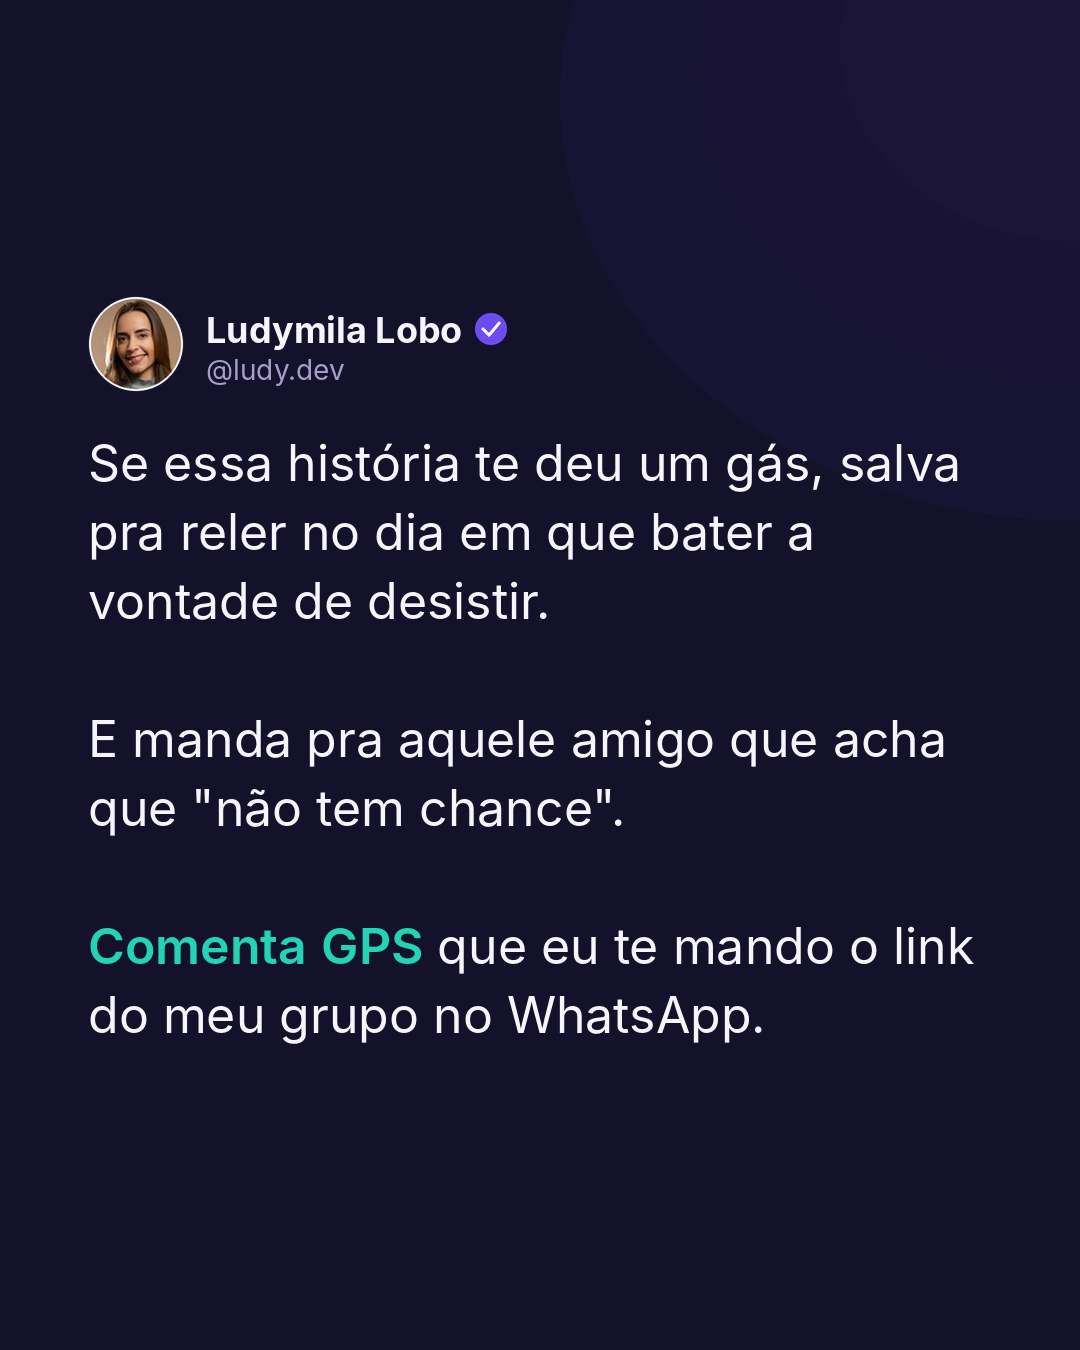
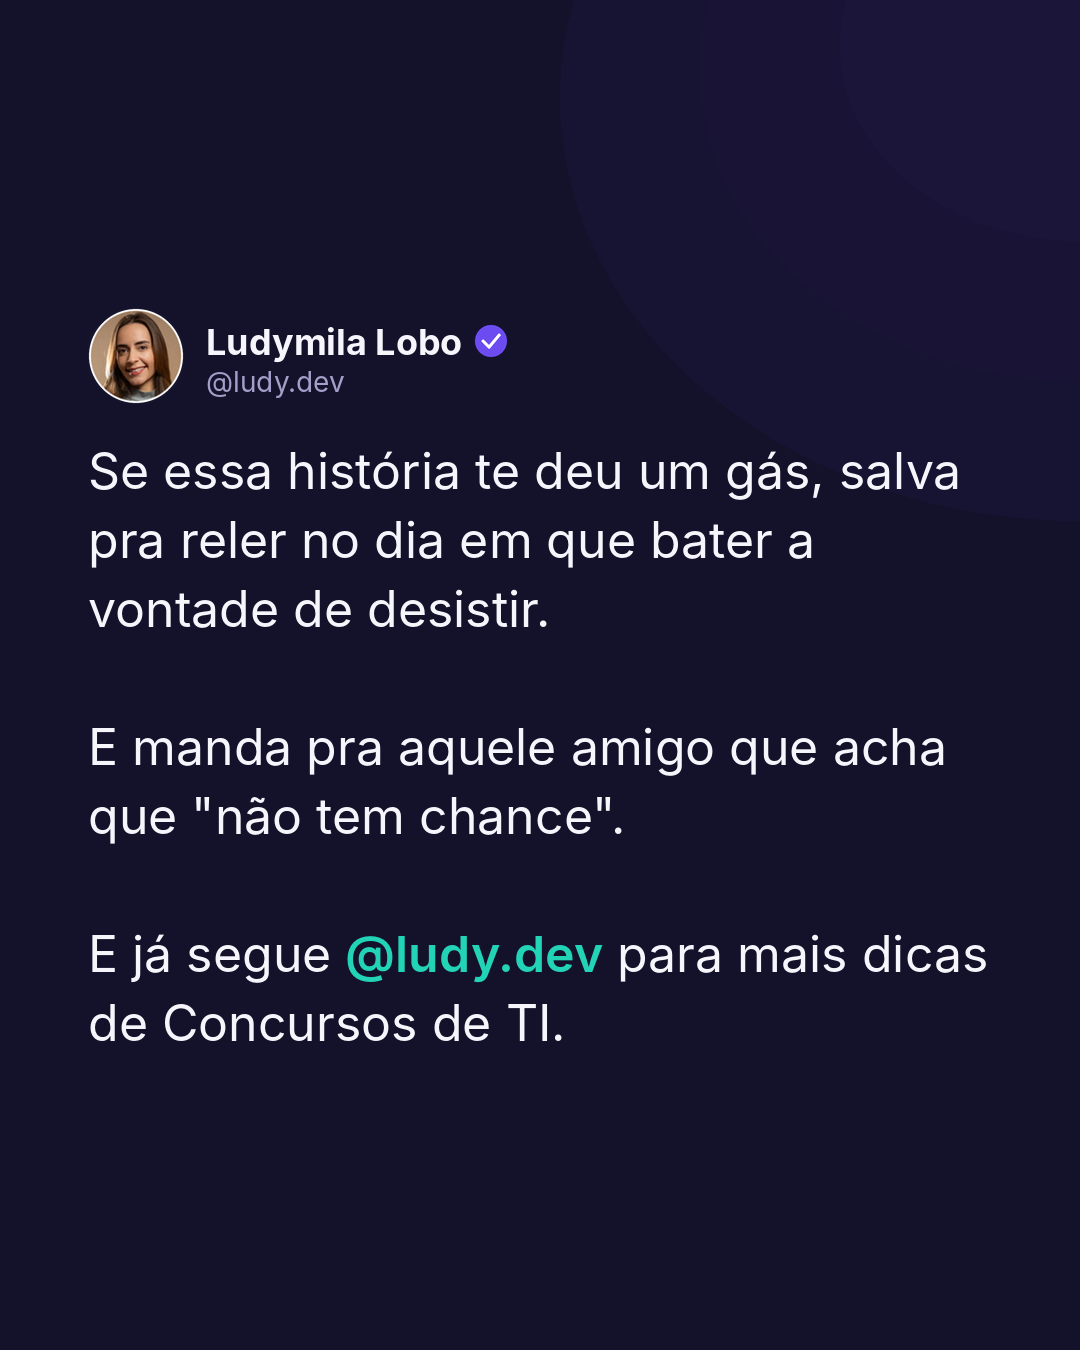
Post 21/10 história: novo CTA no último slide
Claude-Session: https://claude.ai/code/session_016ydKq3ZBWwCP8BaeCJ9gie

Changed region(s): [[0.0611, 0.2178, 0.8861, 0.4667], [0.0611, 0.6844, 0.9167, 0.7778], [0.0611, 0.5289, 0.8861, 0.6222]]

diff --git a/_ferramentas/historia_2110.py b/_ferramentas/historia_2110.py
@@ -171,7 +171,7 @@ SLIDES = [
  ("Então não se limite.\n\nNem pela **idade,** pra mais ou pra menos. Nem pelo **número de vagas.** Nem pela **sua colocação.**\n\nQuem continua estudando chega mais longe do que imaginava.",
   46, [(P+'eua-nasa.jpg', 0.5, 0.86, False)], 500),
  # 11 CTA
- ("Se essa história te deu um gás, salva pra reler no dia em que bater a vontade de desistir.\n\nE manda pra aquele amigo que acha que \"não tem chance\".\n\n**Comenta GPS** que eu te mando o link do meu grupo no WhatsApp.",
+ ("Se essa história te deu um gás, salva pra reler no dia em que bater a vontade de desistir.\n\nE manda pra aquele amigo que acha que \"não tem chance\".\n\nE já segue **@ludy.dev** para mais dicas de Concursos de TI.",
   50, None, 0),
 ]
 
